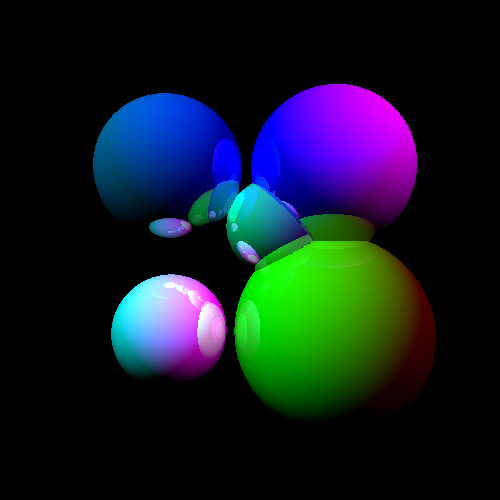
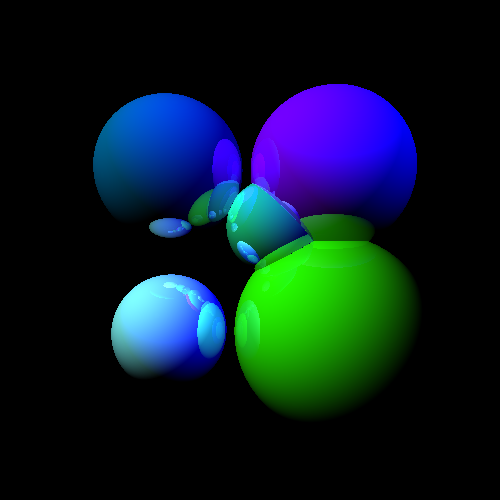
upd

Changed region(s): [[0.42, 0.15, 0.87, 0.78], [0.21, 0.48, 0.57, 0.78], [0.3, 0.42, 0.39, 0.48]]

diff --git a/ruby-tracer.rb b/ruby-tracer.rb
@@ -31,8 +31,8 @@ sphere_objects = [
 
 # Источники освещения
 light_sources = [
-  Light.new(Vector[ 500.0, 500.0, 500.0], Color[1.0, 0.0, 1.0]),
-  Light.new(Vector[-500.0, 500.0, 500.0], Color[0.0, 1.0, 1.0]),
+  Light.new(Vector[ 500.0, 500.0, 500.0], Color[0.0, 0.0, 1.0]),
+  Light.new(Vector[-500.0, 500.0, 500.0], Color[0.5, 1.0, 1.0]),
 ]
 
 shaders = [
